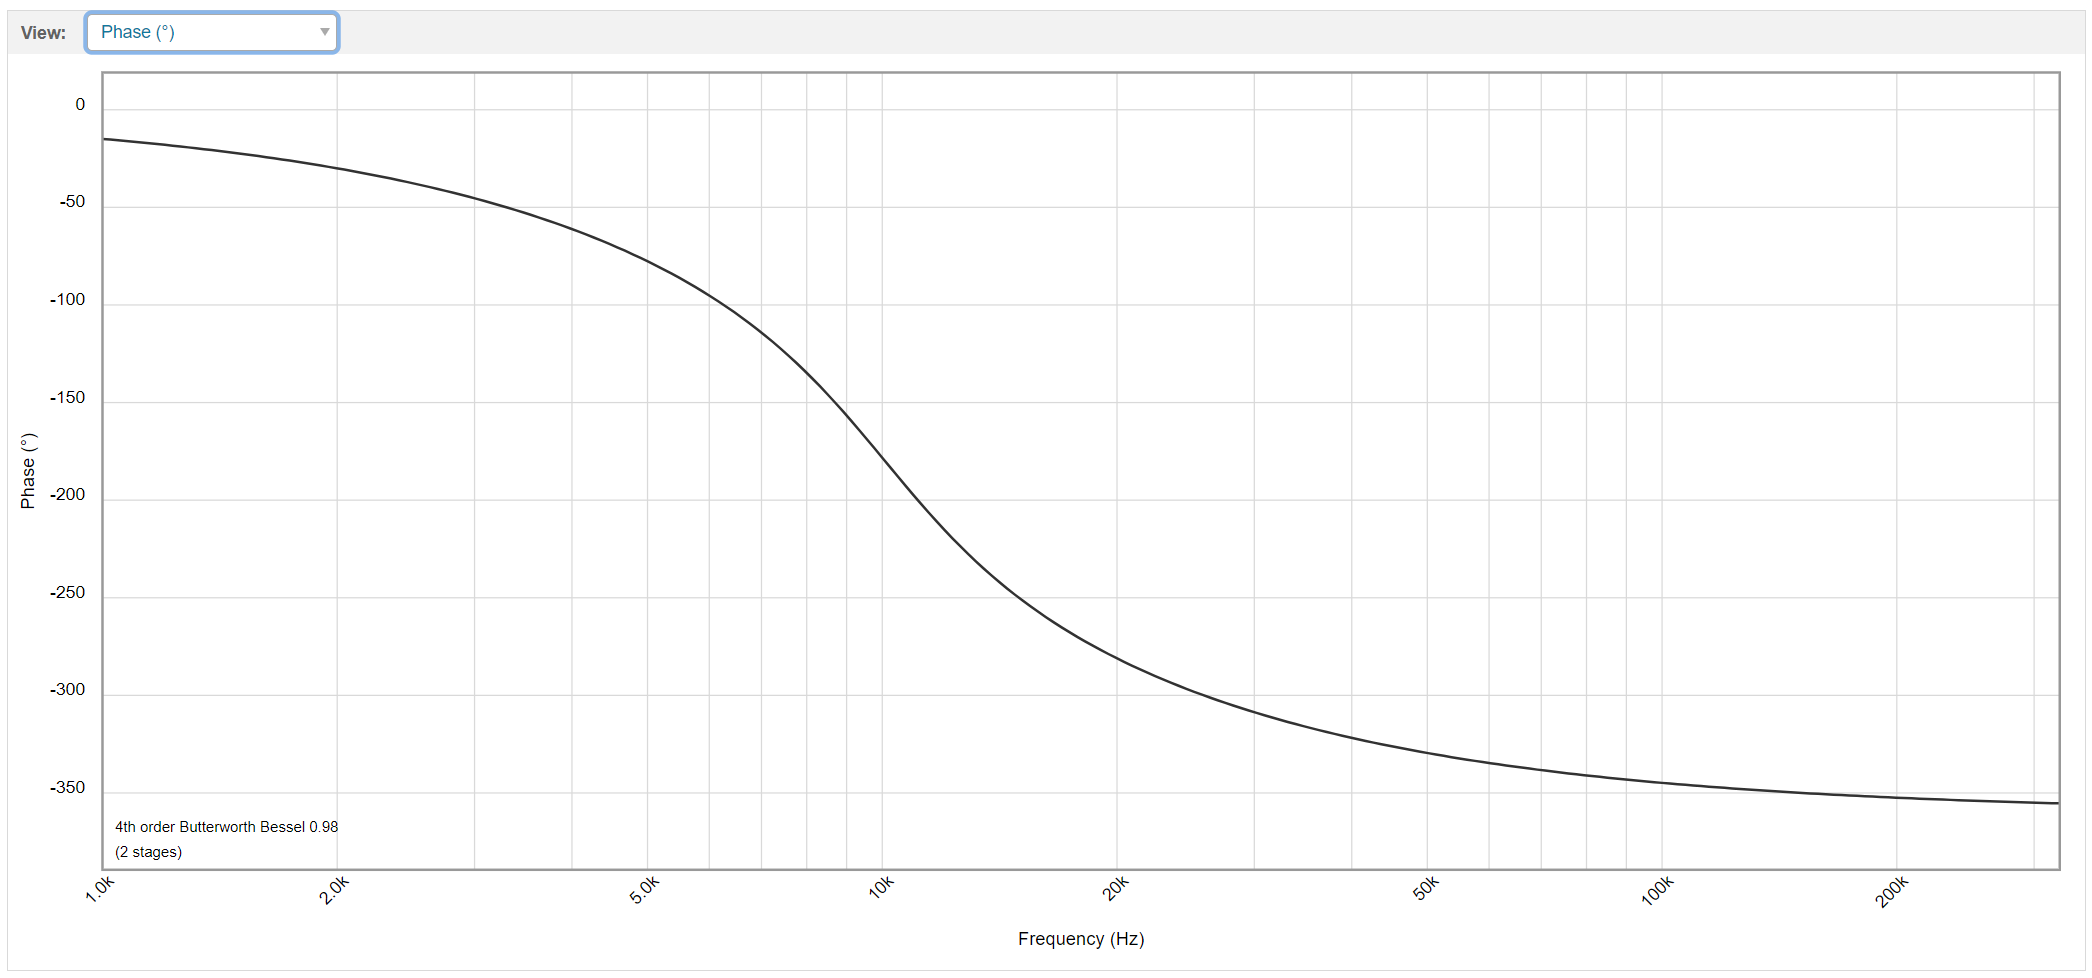
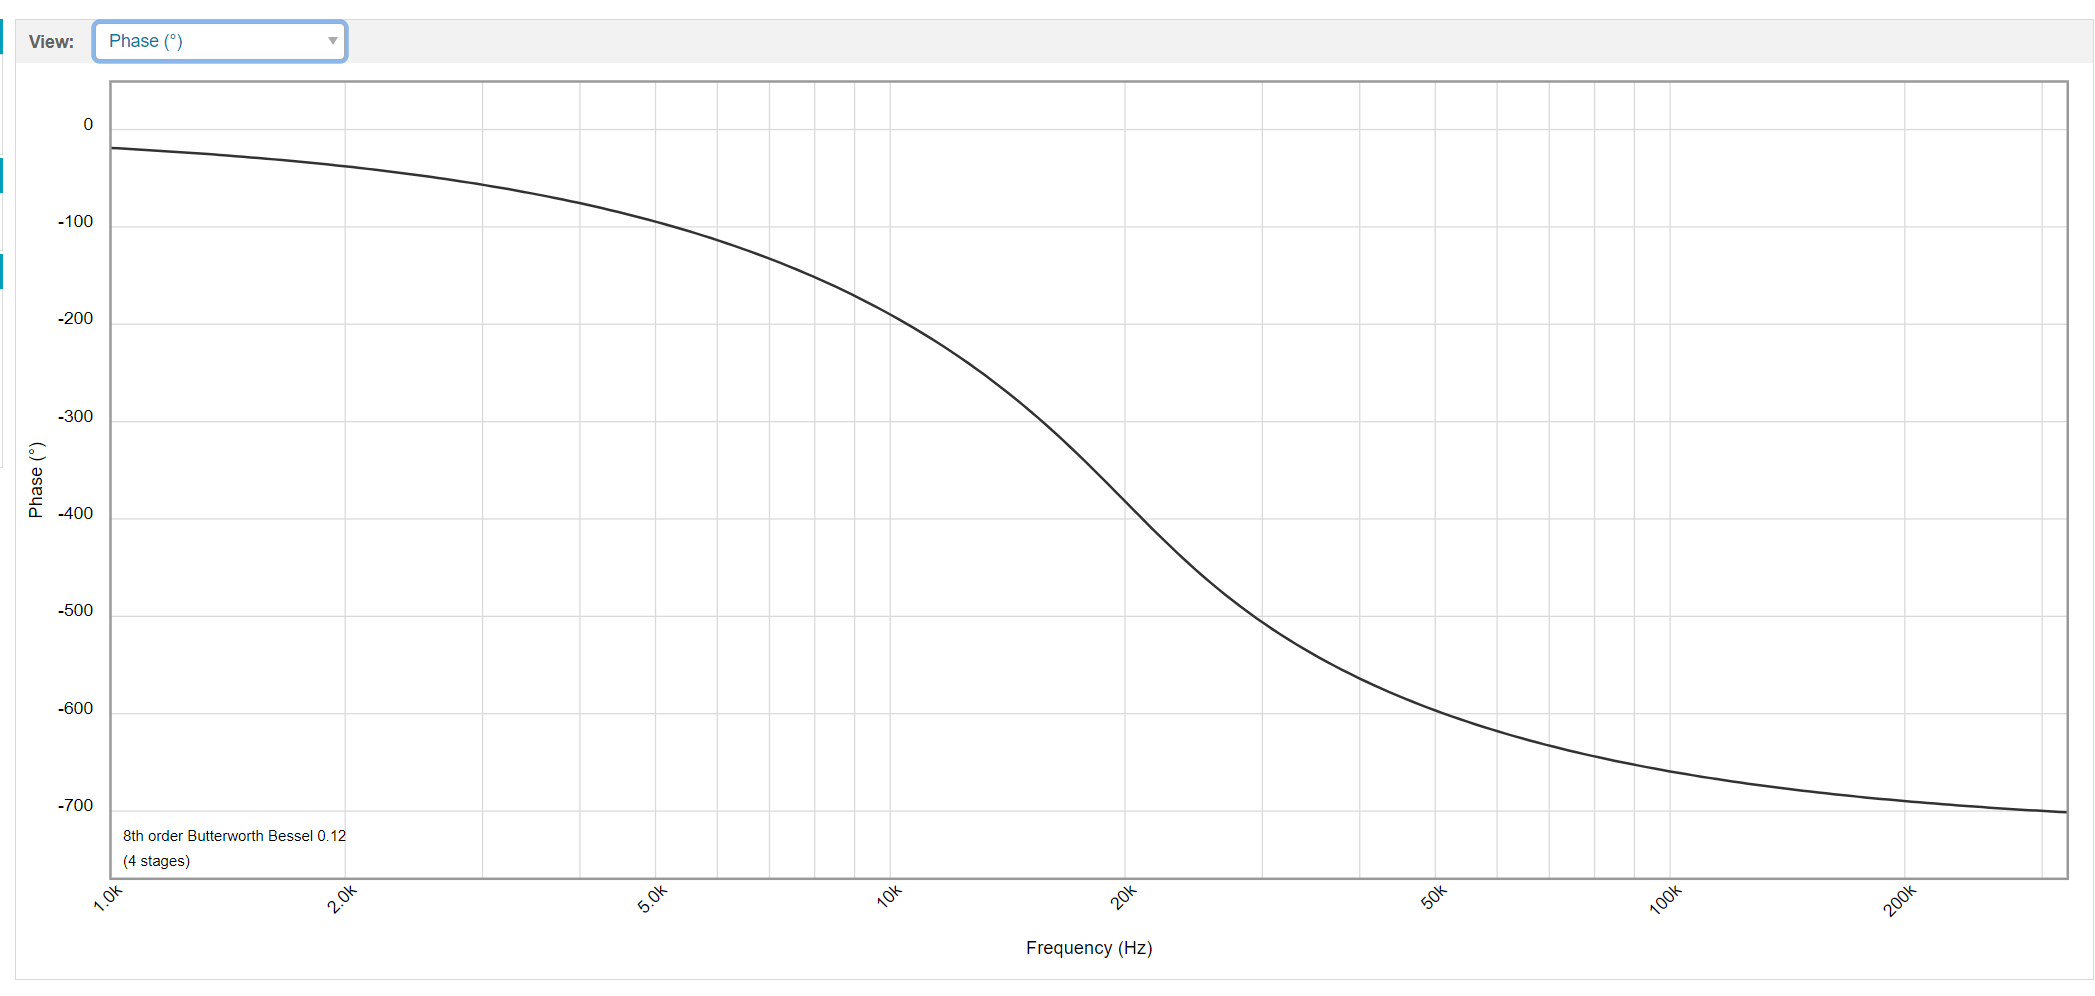
editted readme

diff --git a/Labs/9-13-Project/README.md b/Labs/9-13-Project/README.md
@@ -26,13 +26,13 @@ Analogová část se skládá ze samotného R2R ladderu, kde byly zvoleny hodnot
 neinvertujícího zapojení operačního zesilovače, který slouží jako impedanční transformátor mezi R2R převodníkem a rekonstrukčními filtry.
 
 ### Návrh Rekonstrukčního filtru
-Rekonstrukční filtr typu DP byl navržen nástrojem firmy Analog Devices Analog Filter Wizard. Byl navržen jako DP 4. řádu s Butterworth Beselovou aproximací. Méně strmé aproximace byly zvoleny z důvodu fázového zkreslení.
+Rekonstrukční filtr typu DP byl navržen nástrojem firmy Analog Devices Analog Filter Wizard. Byl navržen jako DP 8. řádu s Butterworth Beselovou aproximací. Méně strmé aproximace byly zvoleny z důvodu fázového zkreslení.
 Jako mezní frekvence byla zvolena frekvence 10 kHz, což dává rezervu 8 kHz nad maximální fundamentální složkou generovaného signálu (2 kHz) a zároveň umožňuje potlačit výrazně repliku spektra nad fvz/2=31 kHz.
 
 Výsledné charakteristiky:
-![Digi_schema](images/amplitude_char.PNG )
-![Digi_schema](images/Phase_char.PNG )
-
+![Amplitude char](images/amplitude_char.PNG )
+![Phase char](images/Phase_char.PNG )
+![Group delay](images/grp_delay.PNG )
 ## Popis kódu a simulace
 
 Kód využívá dvou časovačů TIMER0 a TIMER2. TIMER0 se využívá ke generování výstupního signálu, tedy jeho přetečení určuje vzorkovací frekvenci, ta je nastavena na 62,5 kHz. Při každém přetečení timeru nastává posunutí 
@@ -58,3 +58,4 @@ Po stisku tlačítka F se dá v módu DTMF měnit násobek druhé frekvence. po 
 
 * https://www.tek.com/blog/tutorial-digital-analog-conversion-r-2r-dac
 * http://www.peterfleury.epizy.com/avr-software.html
+* https://tools.analog.com/en/filterwizard/
